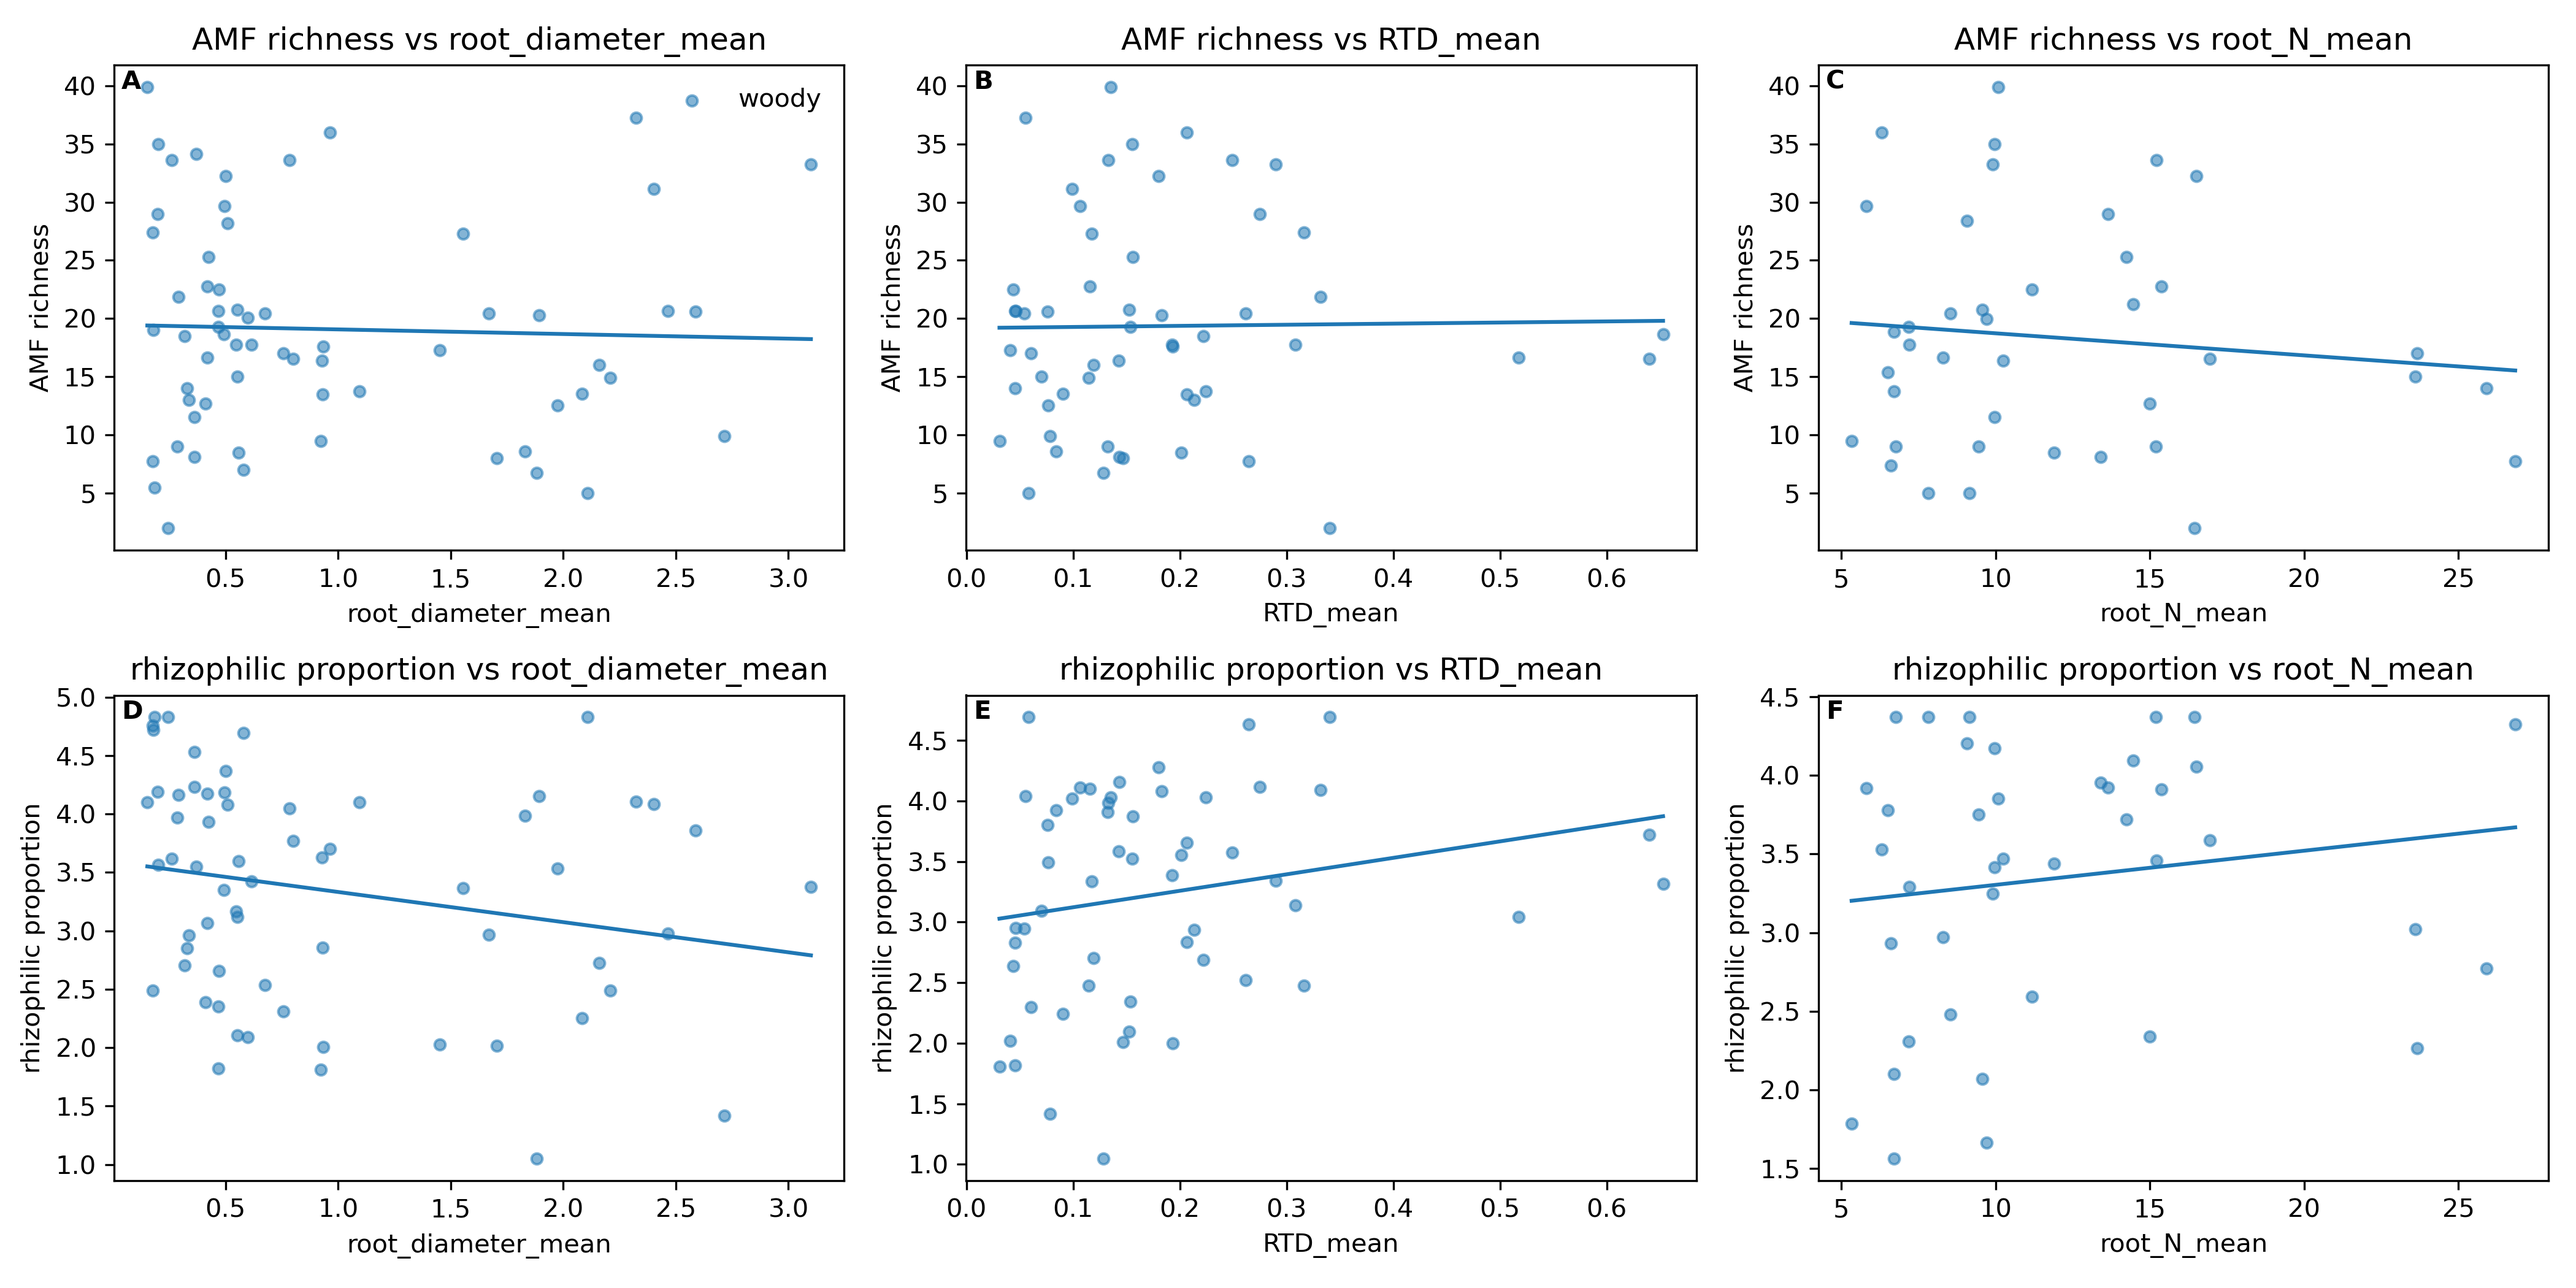
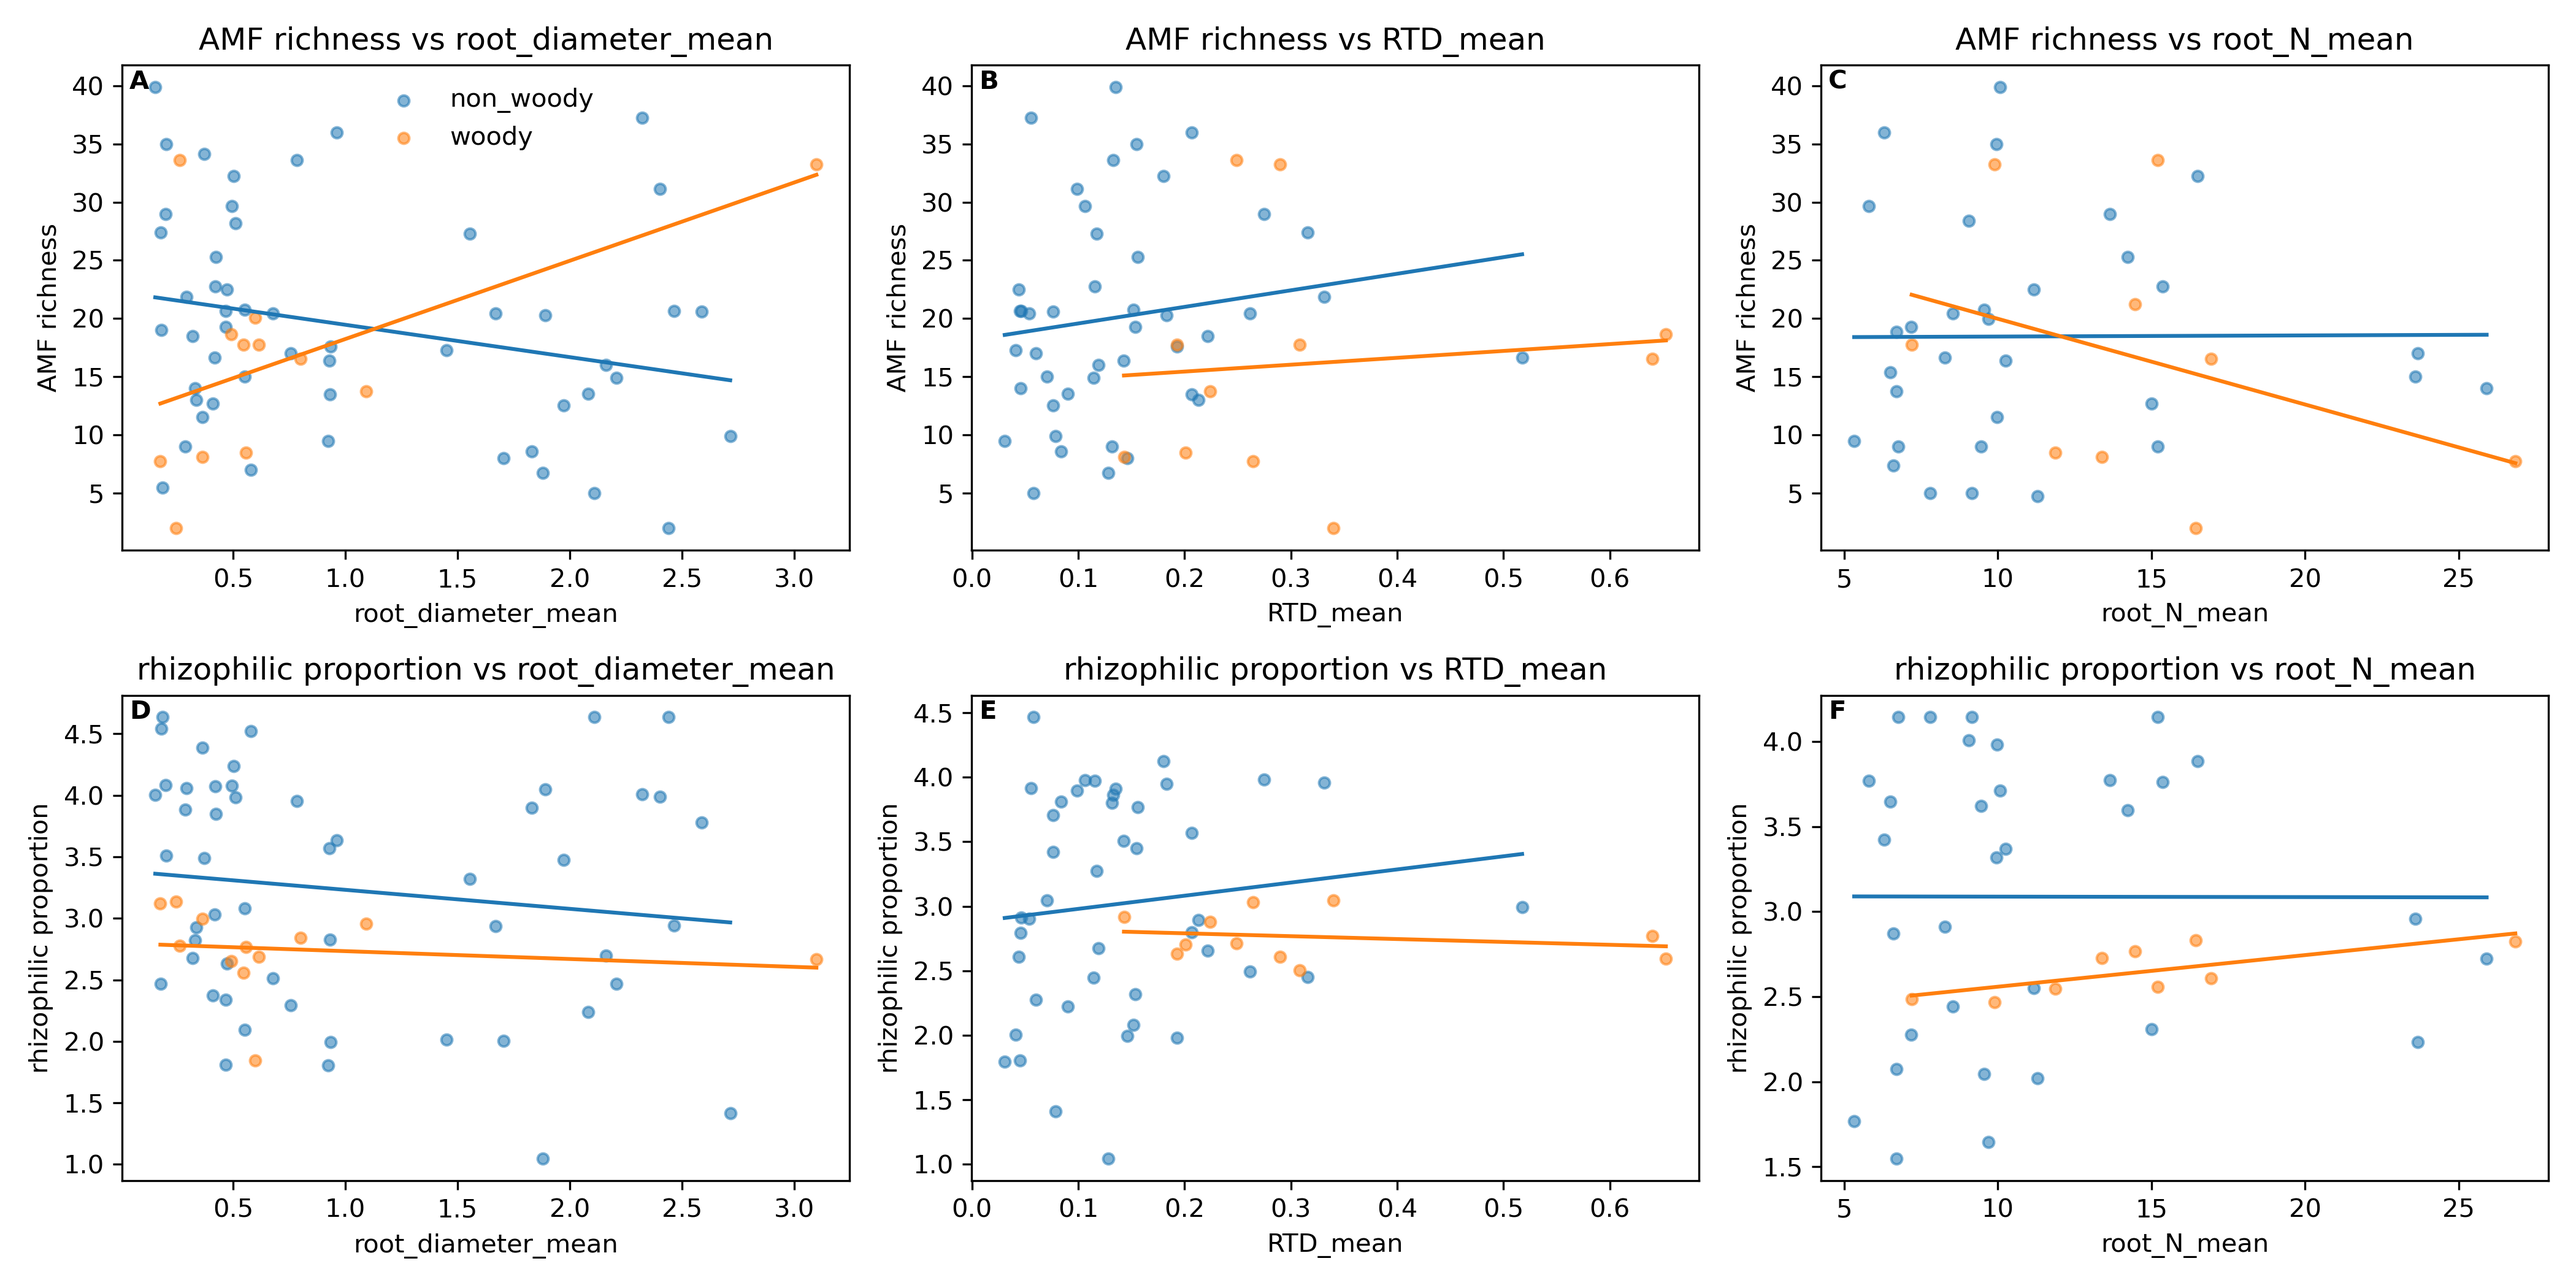
fix woody grouping and add explicit Figure 8 legends

diff --git a/src/pal/fred_amf_figures.py b/src/pal/fred_amf_figures.py
@@ -4,6 +4,7 @@ import string
 from pathlib import Path
 
 import matplotlib.pyplot as plt
+from matplotlib.lines import Line2D
 import numpy as np
 import pandas as pd
 import statsmodels.api as sm
@@ -237,7 +238,10 @@ def fig6_guilds_vs_traits(master: pd.DataFrame, out_base: Path) -> None:
 
 def fig7_woody_sensitivity(master: pd.DataFrame, out_base: Path) -> None:
     d = master.copy()
-    d["group"] = np.where(d.get("woodiness", "").astype(str).str.lower().str.contains("wood"), "woody", "non_woody")
+    w = d.get("woodiness", "").astype(str).str.lower()
+    is_non_woody = w.str.contains("non-woody") | w.str.contains("herb")
+    is_woody = (w.str.contains("woody") & ~is_non_woody) | w.str.fullmatch("woody")
+    d["group"] = np.where(is_non_woody, "non_woody", np.where(is_woody, "woody", "non_woody"))
     traits = ["root_diameter_mean", "RTD_mean", "root_N_mean"]
     fig, axs = plt.subplots(2, len(traits), figsize=(14, 7))
     for r, resp in enumerate(["EcoBank_amf_richness_mean", "EcoBank_prop_rhizophilic_mean"]):
@@ -268,14 +272,29 @@ def fig8_genus_sensitivity(genus_master: pd.DataFrame, out_base: Path) -> None:
         if t in genus_master.columns and "EcoBank_amf_richness_mean" in genus_master.columns:
             d = genus_master[[t, "EcoBank_amf_richness_mean", "n_species"]].dropna()
             if len(d):
-                ax.scatter(d[t], d["EcoBank_amf_richness_mean"], s=10 + d["n_species"] * 2, alpha=0.5, label="Genus")
+                sc = ax.scatter(
+                    d[t],
+                    d["EcoBank_amf_richness_mean"],
+                    s=10 + d["n_species"] * 2,
+                    c=d["n_species"],
+                    cmap="viridis",
+                    alpha=0.6,
+                    label="Genus"
+                )
                 n, r2, p = _scatter_with_fit(ax, d, t, "EcoBank_amf_richness_mean", "")
                 ax.text(0.03, 0.97, f"n={n}, R2={r2:.2f}, p={p:.3g}", transform=ax.transAxes, va="top", fontsize=8)
+                cbar = fig.colorbar(sc, ax=ax, fraction=0.046, pad=0.04)
+                cbar.set_label("Species per genus", fontsize=8)
             ax.set_title(f"Genus richness vs {t}")
             ax.set_xlabel(t)
             ax.set_ylabel("Genus-level AMF richness")
-            handles, labels = ax.get_legend_handles_labels()
-            if handles:
-                ax.legend(frameon=False, loc="best")
+            if len(d):
+                size_vals = [5, 15, 30]
+                size_handles = [
+                    plt.scatter([], [], s=10 + v * 2, color="gray", alpha=0.6, label=f"size={v}")
+                    for v in size_vals
+                ]
+                line_handle = Line2D([0], [0], color="black", lw=1.5, label="OLS fit")
+                ax.legend(handles=size_handles + [line_handle], frameon=False, loc="best", title="Legend")
     _panel_labels(axs)
     save_png(fig, out_base)
